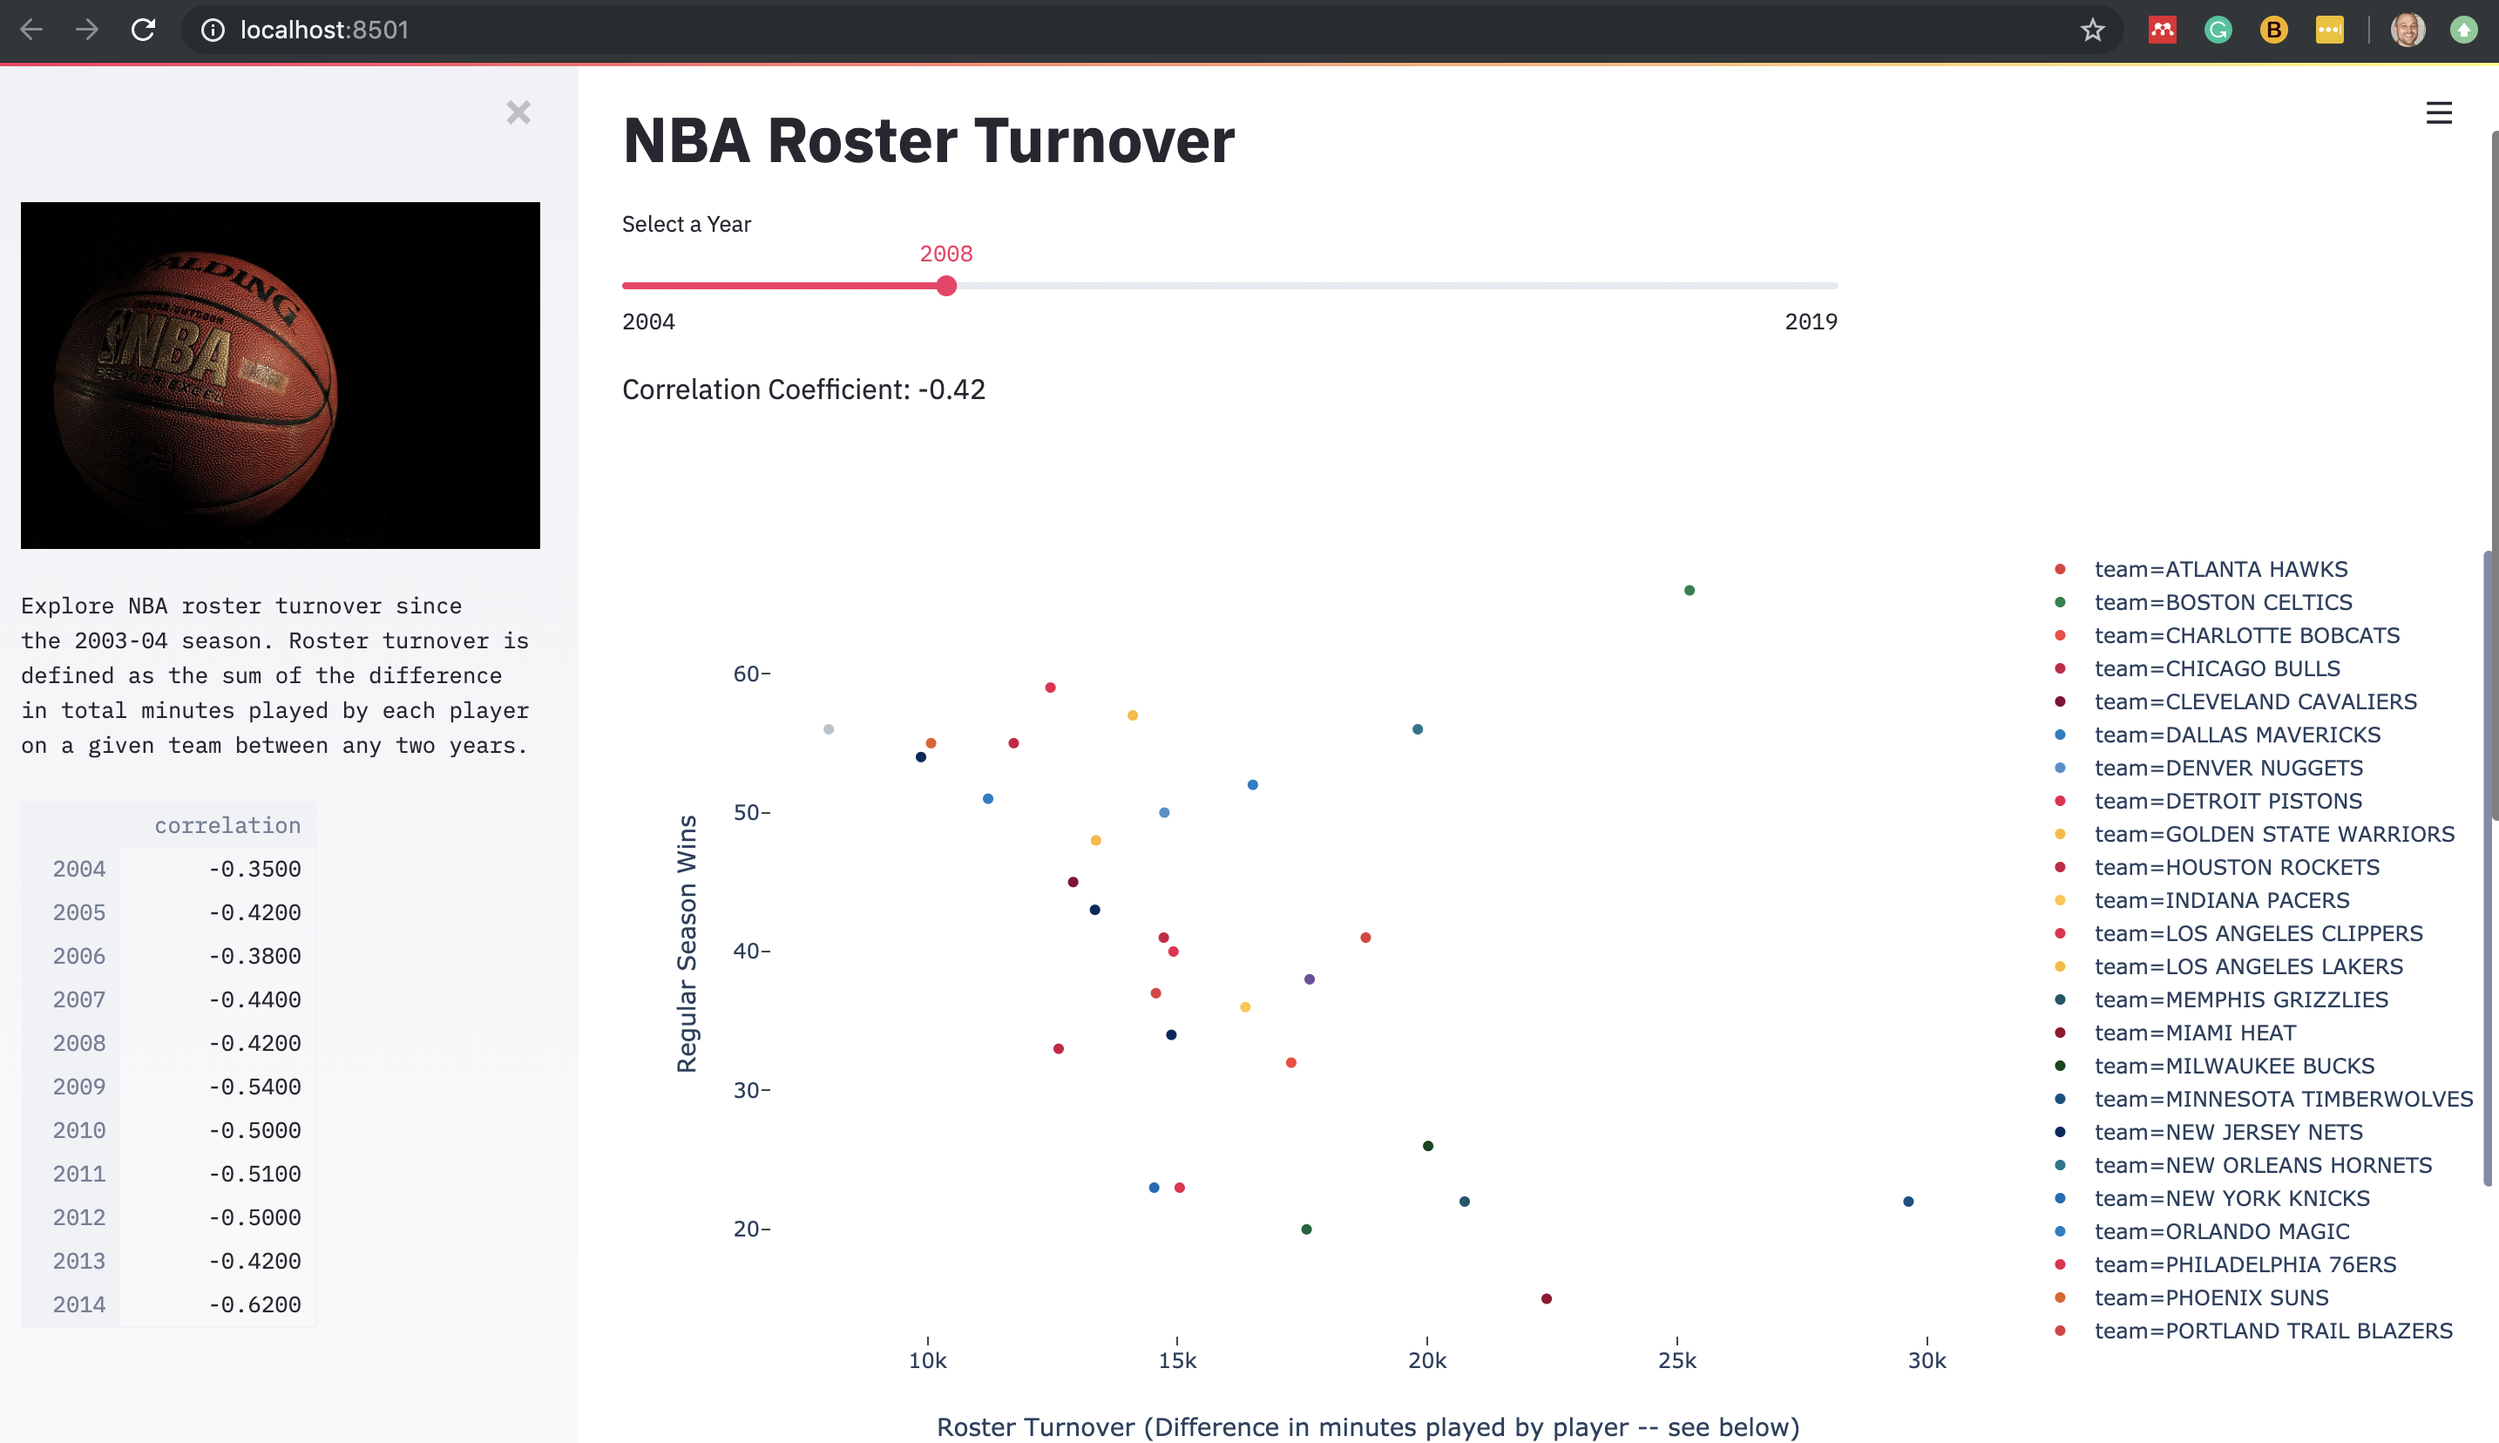
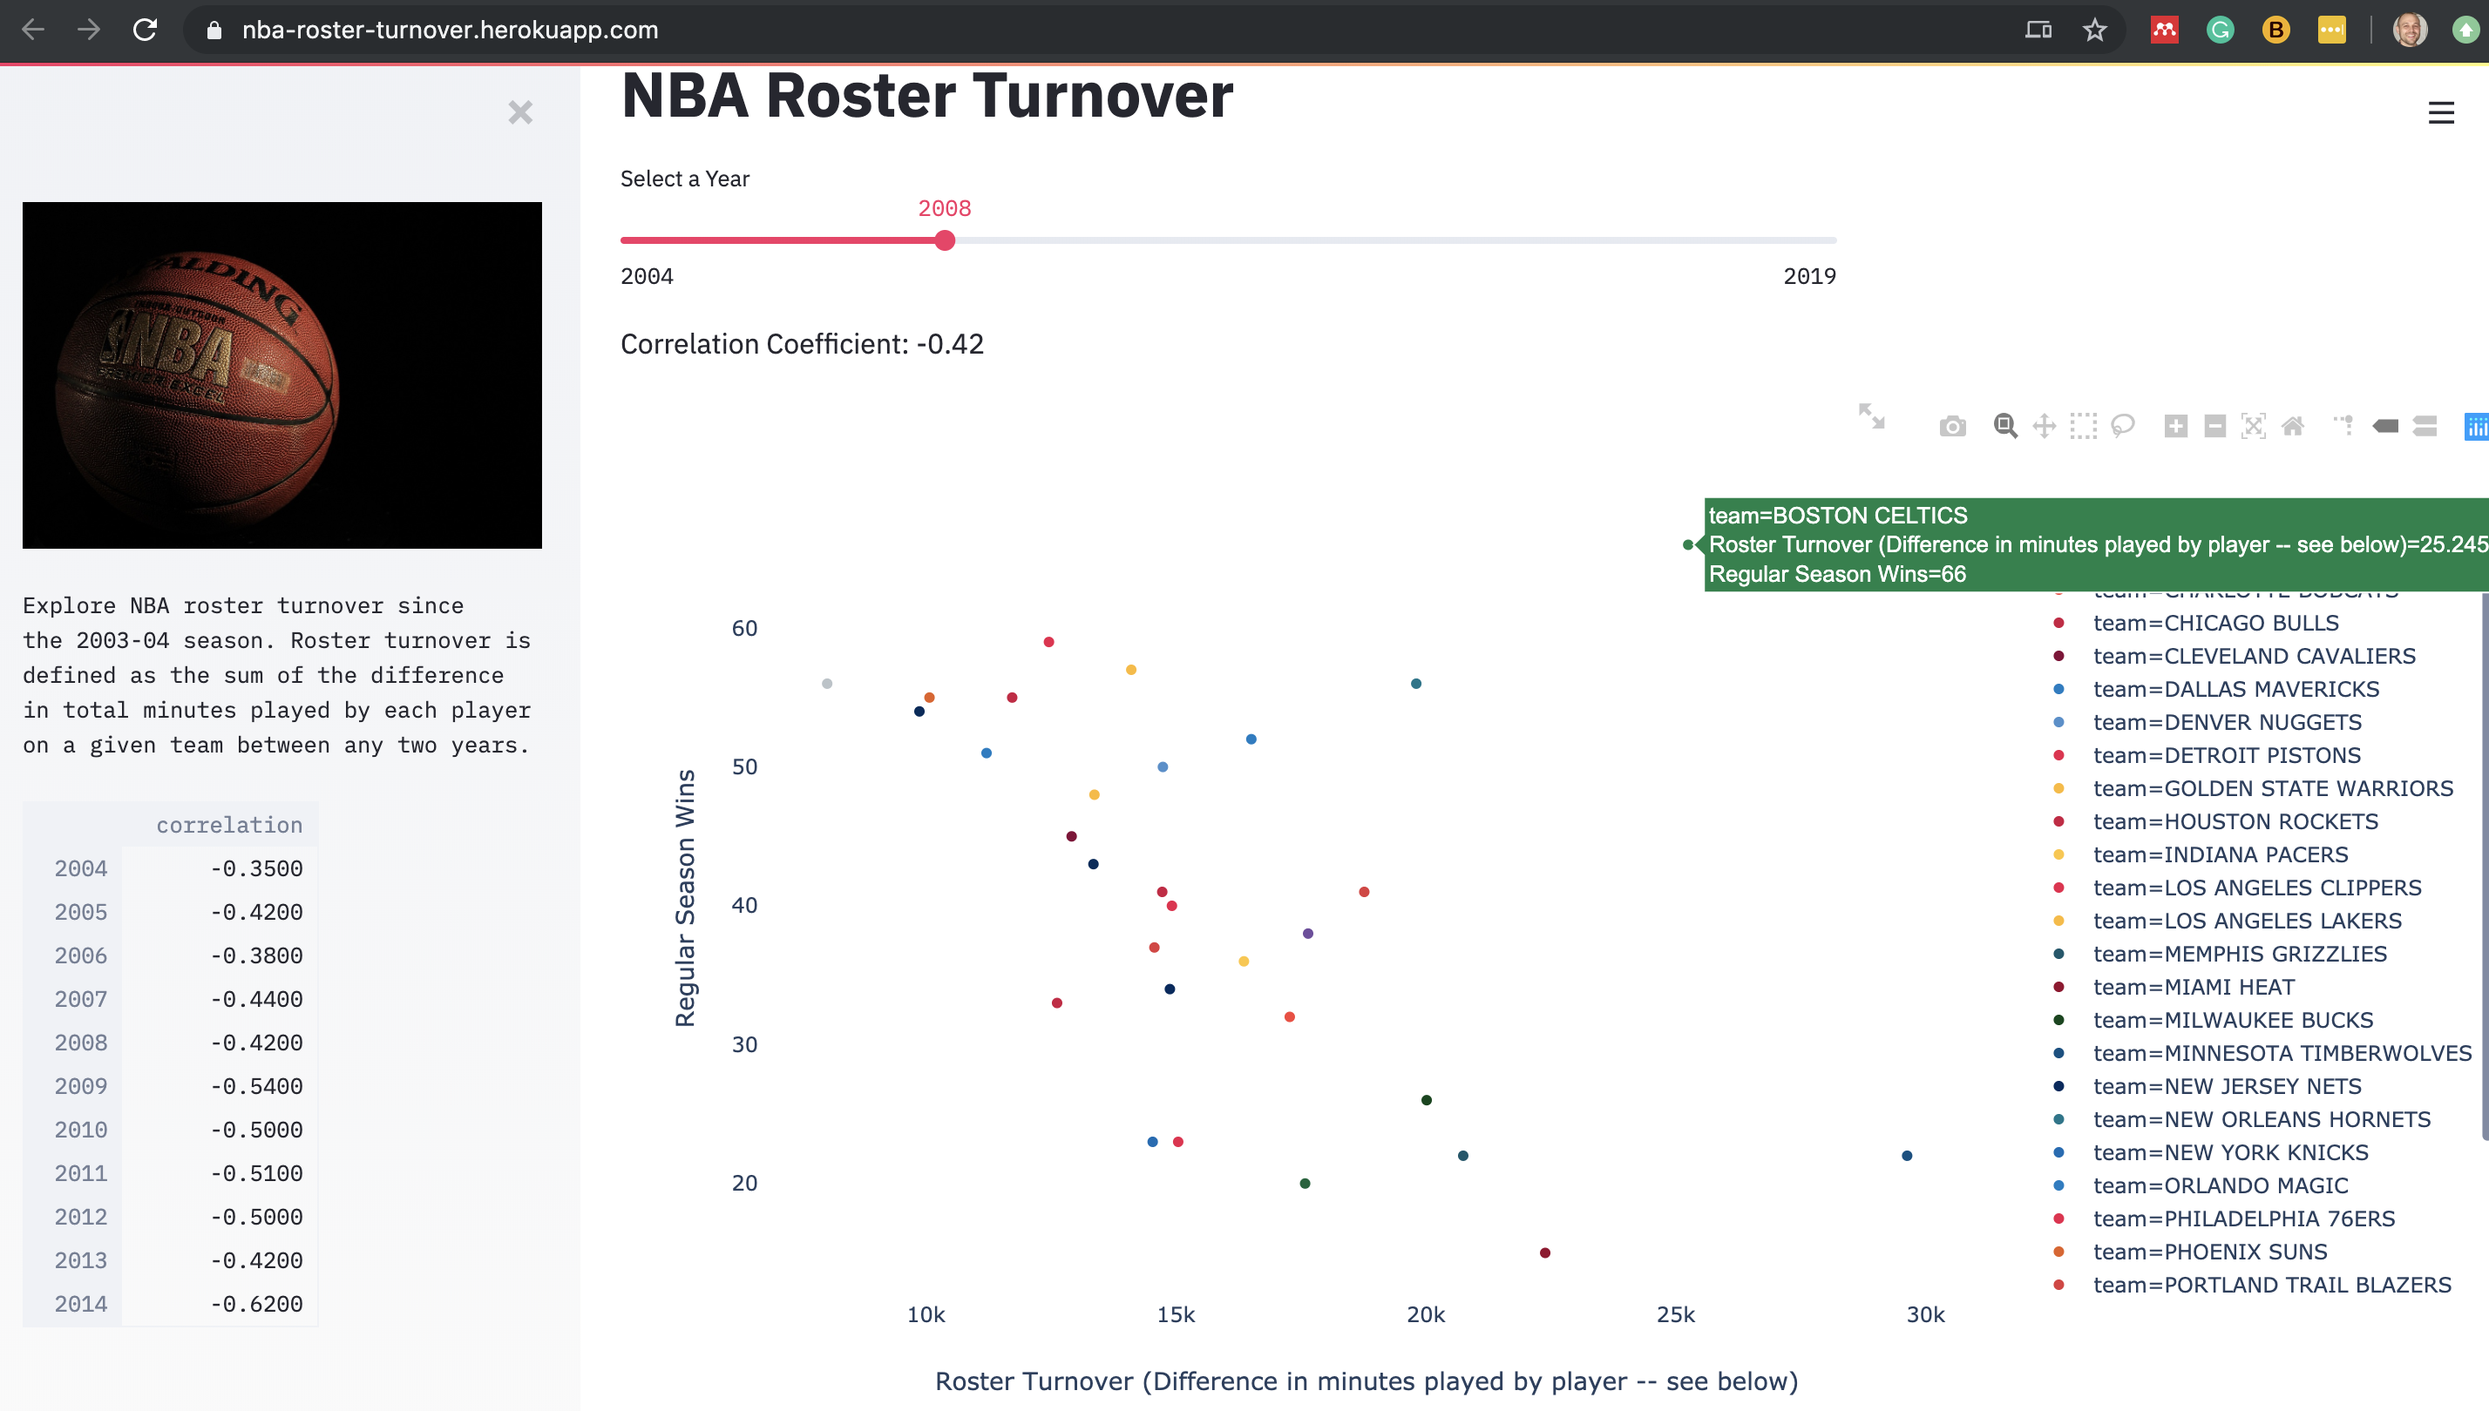
Update README

diff --git a/README.md b/README.md
@@ -1,8 +1,10 @@
 # NBA Roster Turnover
 Explore NBA roster turnover from year to year and the correlation it has with team wins. 
 Roster turnover is defined as the sum of the total difference between minutes played by each player from
-year to year.
+year to year. There is a significant negative correlation with higher turnover and regular season wins.
 
-There is a significant negative correlation with higher turnover and regular season wins.
+This was built with [streamlit](https://streamlit.io/) and deployed with [heroku](https://www.heroku.com/).
 
+**The outlier team shown in the screenshot is the Boston Celtics in 2008, which is the year
+the Celtics added Ray Allen and Kevin Garnett to their team.**
 ![](images/screen.png)
